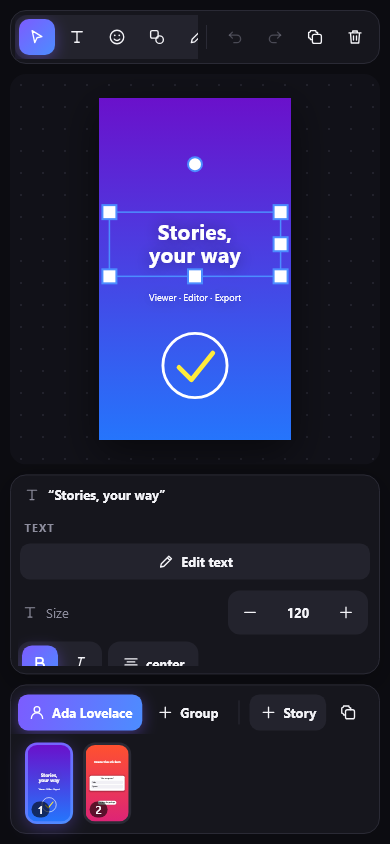
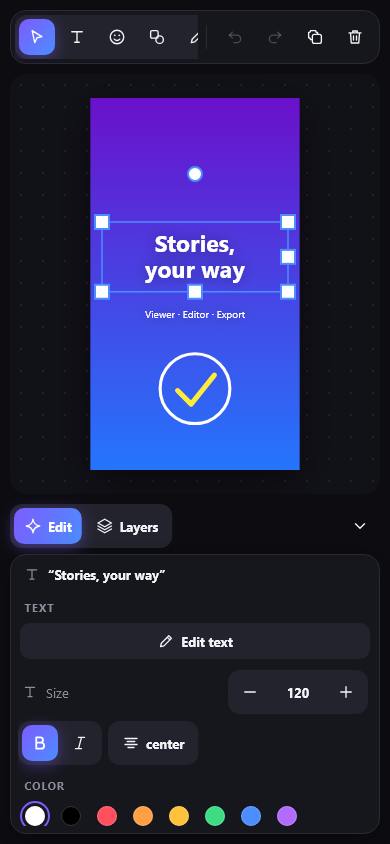
Give the editor a phone-friendly layout
On narrow screens, properties and layers move into a collapsible sheet
that opens on selection and replaces the timeline while open, so the
canvas keeps most of the screen. Layers are now reachable on phones.

diff --git a/lib/src/editor/widgets/story_editor.dart b/lib/src/editor/widgets/story_editor.dart
@@ -10,6 +10,7 @@ import '../controller/story_editor_controller.dart';
 import '../tools/builtin_tools.dart';
 import '../tools/story_editor_tool.dart';
 import 'editor_controls.dart';
+import 'editor_icons.dart';
 
 /// Builds one part of the editor UI.
 typedef StoryEditorPartBuilder = Widget Function(
@@ -327,15 +328,19 @@ class _StoryEditorState extends State<StoryEditor> {
 /// The default editor arrangement.
 ///
 /// Wide layouts (at least [wideBreakpoint] pixels) show the canvas with a
-/// side panel of layers and properties; narrow layouts stack the properties
-/// under the canvas. The timeline is always at the bottom.
-class StoryEditorDefaultLayout extends StatelessWidget {
+/// side panel of layers and properties. Narrow layouts (phones) give the
+/// canvas most of the screen and put properties and layers in a collapsible
+/// sheet below it, which opens when something is selected and closes when
+/// the selection is cleared. The timeline is at the bottom, except on narrow
+/// layouts while the sheet is open.
+class StoryEditorDefaultLayout extends StatefulWidget {
   /// Creates the default layout.
   const StoryEditorDefaultLayout({
     required this.parts,
     this.wideBreakpoint = 720,
     this.sidePanelWidth = 320,
     this.timelineHeight = 176,
+    this.compactTimelineHeight = 132,
     super.key,
   });
 
@@ -348,17 +353,96 @@ class StoryEditorDefaultLayout extends StatelessWidget {
   /// Width of the side panel in wide layouts.
   final double sidePanelWidth;
 
-  /// Height of the timeline.
+  /// Height of the timeline in wide layouts.
   final double timelineHeight;
+
+  /// Height of the timeline in narrow layouts.
+  final double compactTimelineHeight;
+
+  @override
+  State<StoryEditorDefaultLayout> createState() =>
+      _StoryEditorDefaultLayoutState();
+}
+
+/// Which part the narrow layout's sheet shows.
+enum _SheetTab { edit, layers }
+
+class _StoryEditorDefaultLayoutState extends State<StoryEditorDefaultLayout> {
+  static const double _gap = 10;
+
+  _SheetTab _tab = _SheetTab.edit;
+  bool _open = false;
+  bool _hadSelection = false;
+  bool _wasDrawing = false;
+  StoryEditorController? _listening;
+
+  @override
+  void initState() {
+    super.initState();
+    _listen();
+  }
+
+  @override
+  void didUpdateWidget(StoryEditorDefaultLayout oldWidget) {
+    super.didUpdateWidget(oldWidget);
+    _listen();
+  }
+
+  @override
+  void dispose() {
+    _listening?.removeListener(_onControllerChanged);
+    super.dispose();
+  }
+
+  void _listen() {
+    final controller = widget.parts.controller;
+    if (identical(_listening, controller)) return;
+    _listening?.removeListener(_onControllerChanged);
+    controller.addListener(_onControllerChanged);
+    _listening = controller;
+    _hadSelection = controller.editableSelection.isNotEmpty;
+    _wasDrawing = controller.activeToolId == StoryDrawTool.toolId;
+    _open = _hadSelection || _wasDrawing;
+  }
+
+  /// Opens the sheet on Edit when editing starts; closes it again when the
+  /// selection is cleared, unless the user is browsing layers.
+  void _onControllerChanged() {
+    final controller = widget.parts.controller;
+    final hasSelection = controller.editableSelection.isNotEmpty;
+    final drawing = controller.activeToolId == StoryDrawTool.toolId;
+    final starts =
+        (hasSelection && !_hadSelection) || (drawing && !_wasDrawing);
+    final ends = !hasSelection && !drawing && (_hadSelection || _wasDrawing);
+    _hadSelection = hasSelection;
+    _wasDrawing = drawing;
+    if (starts) {
+      setState(() {
+        _open = true;
+        _tab = _SheetTab.edit;
+      });
+    } else if (ends && _tab == _SheetTab.edit && _open) {
+      setState(() => _open = false);
+    }
+  }
+
+  void _select(_SheetTab tab) => setState(() {
+        if (_open && _tab == tab) {
+          _open = false;
+        } else {
+          _open = true;
+          _tab = tab;
+        }
+      });
 
   @override
   Widget build(BuildContext context) {
-    const gap = 10.0;
+    final parts = widget.parts;
     return ColoredBox(
       color: StoryEditorColors.background,
       child: LayoutBuilder(
         builder: (context, constraints) {
-          final wide = constraints.maxWidth >= wideBreakpoint;
+          final wide = constraints.maxWidth >= widget.wideBreakpoint;
           final canvas = ClipRRect(
             borderRadius: BorderRadius.circular(16),
             child: CustomPaint(
@@ -366,27 +450,29 @@ class StoryEditorDefaultLayout extends StatelessWidget {
               child: parts.canvas,
             ),
           );
+          final sheetHeight =
+              (constraints.maxHeight * 0.34).clamp(150.0, 280.0);
           return Padding(
-            padding: const EdgeInsets.all(gap),
+            padding: const EdgeInsets.all(_gap),
             child: Column(
               crossAxisAlignment: CrossAxisAlignment.stretch,
               children: [
                 Center(child: parts.toolbar),
-                const SizedBox(height: gap),
+                const SizedBox(height: _gap),
                 Expanded(
                   child: wide
                       ? Row(
                           crossAxisAlignment: CrossAxisAlignment.stretch,
                           children: [
                             Expanded(child: canvas),
-                            const SizedBox(width: gap),
+                            const SizedBox(width: _gap),
                             SizedBox(
-                              width: sidePanelWidth,
+                              width: widget.sidePanelWidth,
                               child: Column(
                                 crossAxisAlignment: CrossAxisAlignment.stretch,
                                 children: [
                                   Expanded(flex: 2, child: parts.layers),
-                                  const SizedBox(height: gap),
+                                  const SizedBox(height: _gap),
                                   Expanded(flex: 3, child: parts.properties),
                                 ],
                               ),
@@ -397,24 +483,101 @@ class StoryEditorDefaultLayout extends StatelessWidget {
                           crossAxisAlignment: CrossAxisAlignment.stretch,
                           children: [
                             Expanded(child: canvas),
-                            const SizedBox(height: gap),
-                            ConstrainedBox(
-                              constraints: const BoxConstraints(maxHeight: 200),
-                              child: parts.properties,
+                            const SizedBox(height: _gap),
+                            _SheetTabs(
+                              tab: _tab,
+                              open: _open,
+                              onSelected: _select,
+                            ),
+                            AnimatedSize(
+                              duration: const Duration(milliseconds: 220),
+                              curve: Curves.easeOutCubic,
+                              alignment: Alignment.topCenter,
+                              child: _open
+                                  ? Padding(
+                                      padding: const EdgeInsets.only(top: 6),
+                                      child: SizedBox(
+                                        height: sheetHeight,
+                                        child: _tab == _SheetTab.edit
+                                            ? parts.properties
+                                            : parts.layers,
+                                      ),
+                                    )
+                                  : const SizedBox(width: double.infinity),
                             ),
                           ],
                         ),
                 ),
-                const SizedBox(height: gap),
-                SizedBox(
-                  height: wide ? timelineHeight : timelineHeight * 0.85,
-                  child: parts.timeline,
+                // On phones the open sheet takes the timeline's place, so the
+                // canvas keeps its room while an element is being edited.
+                AnimatedSize(
+                  duration: const Duration(milliseconds: 220),
+                  curve: Curves.easeOutCubic,
+                  alignment: Alignment.topCenter,
+                  child: wide || !_open
+                      ? Padding(
+                          padding: const EdgeInsets.only(top: _gap),
+                          child: SizedBox(
+                            height: wide
+                                ? widget.timelineHeight
+                                : widget.compactTimelineHeight,
+                            child: parts.timeline,
+                          ),
+                        )
+                      : const SizedBox(width: double.infinity),
                 ),
               ],
             ),
           );
         },
       ),
+    );
+  }
+}
+
+/// The Edit and Layers switches above the narrow layout's sheet. Tapping the
+/// open tab collapses the sheet.
+class _SheetTabs extends StatelessWidget {
+  const _SheetTabs({
+    required this.tab,
+    required this.open,
+    required this.onSelected,
+  });
+
+  final _SheetTab tab;
+  final bool open;
+  final ValueChanged<_SheetTab> onSelected;
+
+  @override
+  Widget build(BuildContext context) {
+    final editOpen = open && tab == _SheetTab.edit;
+    final layersOpen = open && tab == _SheetTab.layers;
+    return Row(
+      children: [
+        StoryEditorButtonGroup(children: [
+          StoryEditorButton(
+            label: editOpen ? 'Hide properties' : 'Show properties',
+            icon: StoryEditorIcons.sparkle,
+            glyph: 'Edit',
+            selected: editOpen,
+            onPressed: () => onSelected(_SheetTab.edit),
+          ),
+          StoryEditorButton(
+            label: layersOpen ? 'Hide layers' : 'Show layers',
+            icon: StoryEditorIcons.layers,
+            glyph: 'Layers',
+            selected: layersOpen,
+            onPressed: () => onSelected(_SheetTab.layers),
+          ),
+        ]),
+        const Spacer(),
+        StoryEditorButton(
+          label: open ? 'Collapse panel' : 'Expand panel',
+          icon:
+              open ? StoryEditorIcons.chevronDown : StoryEditorIcons.chevronUp,
+          onPressed: () => onSelected(tab),
+        ),
+      ],
     );
   }
 }

diff --git a/test/widget/editor/story_editor_test.dart b/test/widget/editor/story_editor_test.dart
@@ -47,10 +47,46 @@ void main() {
     expect(find.text('“t1”'), findsOneWidget);
   });
 
-  testWidgets('narrow layouts drop the side panel', (tester) async {
-    await pumpEditor(tester, size: const Size(500, 900));
+  testWidgets('narrow layouts put properties and layers in a sheet',
+      (tester) async {
+    final controller = await pumpEditor(tester, size: const Size(400, 860));
+    // Nothing selected: the sheet is closed, so the canvas gets the room.
     expect(find.byType(StoryLayersPanel), findsNothing);
+    expect(find.byType(StoryPropertiesPanel), findsNothing);
+
+    // Selecting opens it on Edit.
+    controller.select(['t1']);
+    await tester.pumpAndSettle();
     expect(find.byType(StoryPropertiesPanel), findsOneWidget);
+
+    // Layers are reachable on phones too.
+    await tester.tap(find.bySemanticsLabel('Show layers'));
+    await tester.pumpAndSettle();
+    expect(find.byType(StoryLayersPanel), findsOneWidget);
+    expect(find.byType(StoryPropertiesPanel), findsNothing);
+
+    // Deselecting keeps a layers sheet open (the user chose it)...
+    controller.clearSelection();
+    await tester.pumpAndSettle();
+    expect(find.byType(StoryLayersPanel), findsOneWidget);
+
+    // ...but closes an Edit sheet.
+    await tester.tap(find.bySemanticsLabel('Show properties'));
+    await tester.pumpAndSettle();
+    controller.select(['t2']);
+    await tester.pumpAndSettle();
+    controller.clearSelection();
+    await tester.pumpAndSettle();
+    expect(find.byType(StoryPropertiesPanel), findsNothing);
+
+    // The collapse button toggles it by hand.
+    await tester.tap(find.bySemanticsLabel('Expand panel'));
+    await tester.pumpAndSettle();
+    expect(find.byType(StoryPropertiesPanel), findsOneWidget);
+    await tester.tap(find.bySemanticsLabel('Collapse panel'));
+    await tester.pumpAndSettle();
+    expect(find.byType(StoryPropertiesPanel), findsNothing);
+    expect(tester.takeException(), isNull);
   });
 
   testWidgets('layer rows select without gestures on the canvas',

diff --git a/tool/screenshots_test.dart b/tool/screenshots_test.dart
@@ -259,4 +259,22 @@ void main() {
     await tester.pump();
     await _capture(tester, '../doc/screenshots/editor_mobile.png');
   });
+
+  testWidgets('editor on a phone, nothing selected', (tester) async {
+    debugDisableShadows = false;
+    tester.view.physicalSize = const Size(1170, 2532);
+    tester.view.devicePixelRatio = 3;
+    addTearDown(tester.view.reset);
+    final editor = StoryEditorController(
+      document: showcase(),
+      idGenerator: SequentialStoryIdGenerator(),
+    );
+    addTearDown(editor.dispose);
+    await tester.pumpWidget(_Frame(
+      size: const Size(390, 844),
+      child: StoryEditor(controller: editor),
+    ));
+    await tester.pump();
+    await _capture(tester, '../doc/screenshots/editor_mobile_closed.png');
+  });
 }

diff --git a/CHANGELOG.md b/CHANGELOG.md
@@ -1,3 +1,12 @@
+## Unreleased
+
+- Phone-friendly default editor layout: on narrow screens, properties and
+  layers live in a collapsible sheet with Edit and Layers tabs. It opens
+  when something is selected (or the draw tool is picked), closes when the
+  selection is cleared, and takes the timeline's place while open, so the
+  canvas keeps most of the screen. Layers are now reachable on phones.
+  `StoryEditorDefaultLayout` gains `compactTimelineHeight`.
+
 ## 0.1.0
 
 - Export (`package:story_framework/export.dart`):
